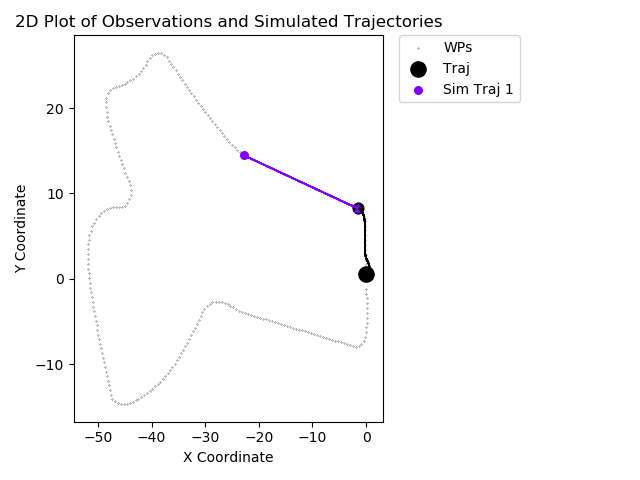
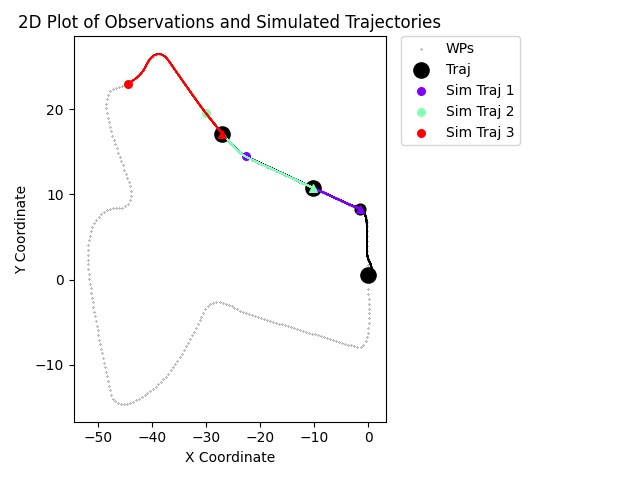
uupdated control transform

diff --git a/ada_cbf/efppo/src/efppo/task/f110.py b/ada_cbf/efppo/src/efppo/task/f110.py
@@ -658,7 +658,12 @@ class F1TenthWayPoint(Task):
         
         assert control.shape[-1] == 2 or control.shape == (2,), f"{control}"
         assert state.shape[-1] == self.nx
-        action = np.clip(control.reshape(-1, 2), self.lb, self.ub)
+
+        ## The control policy's output mean is constrained to be within (0, 3) using sigmoid scaling (check /efppo/src/efppo/networks/poly_net.py: 23)
+        ## Therefore, the input control needs to be linearly transformed to be within [self.lb, self.ub]
+        action = (control.reshape(2) * (self.ub - self.lb) / 3. + self.lb).reshape(-1, 2)
+
+        #action = np.clip(control.reshape(-1, 2), self.lb, self.ub)
        
          
         nxt_state_dict, step_reward, done, info = self.cur_env.step(action)
@@ -685,7 +690,7 @@ class F1TenthWayPoint(Task):
 
         if np.any(np.isnan(nxt_state)) or \
             np.any(np.isinf(nxt_state)) or \
-                False: #np.any(np.abs(nxt_state) > 1e3):
+                np.any(np.abs(nxt_state) > 1e6):
             if self.render:
                 print(f"State overflow: {nxt_state} @ {self.cur_step}. Frozen state: {self.cur_state}")
                 input(f"State overflow: {nxt_state} @ {self.cur_step}. Frozen state: {self.cur_state}. Say something.")

diff --git a/ada_cbf/efppo/src/efppo/rl/efppo_inner.py b/ada_cbf/efppo/src/efppo/rl/efppo_inner.py
@@ -63,10 +63,13 @@ class EFPPOCfg(Cfg):
         act: ActLiteral
         pol_hids: HidSizes
         val_hids: HidSizes
-
+  
         nz_enc: int
         z_mean: float
         z_scale: float
+
+        act_final: bool = True
+       
 
     net: NetCfg
     train: TrainCfg
@@ -124,7 +127,7 @@ class EFPPOInner(struct.PyTreeNode):
         z_base_cls = ft.partial(ZEncoder, nz=cfg.net.nz_enc, z_mean=cfg.net.z_mean, z_scale=cfg.net.z_scale)
 
         # Define policy network.
-        pol_base_cls = ft.partial(MLP, cfg.net.pol_hids, act, act_final=True, scale_final=1e-2)
+        pol_base_cls = ft.partial(MLP, cfg.net.pol_hids, act, act_final=cfg.net.act_final, scale_final=1e-2)
         pol_cls = ft.partial(DiscretePolicyNet, pol_base_cls, task.n_actions)
         pol_def = EFWrapper(pol_cls, z_base_cls)
         pol_tx = get_default_tx(as_schedule(cfg.net.pol_lr).make())

diff --git a/ada_cbf/sysid/run.py b/ada_cbf/sysid/run.py
@@ -224,7 +224,7 @@ def main():
    
     parser = argparse.ArgumentParser()
     parser.add_argument('--algo', type=str, required=True, help='Path to the map without extensions')
-    parser.add_argument('--work', type=int, required=False, d©efault = 0, help='Path to the map without extensions')
+    parser.add_argument('--work', type=int, required=False, default = 0, help='Path to the map without extensions')
     parser.add_argument('--params', type=int, required=False, default = 0, help='Path to the map without extensions')
     parser.add_argument('--render', action='store_true', help='render track')
     args = parser.parse_args()

diff --git a/ada_cbf/efppo/src/efppo/rl/collector.py b/ada_cbf/efppo/src/efppo/rl/collector.py
@@ -167,7 +167,7 @@ def collect_single_env_mode(
 
     for t in range(rollout_T):
         collect_state, (envstate_new, obs_pol, z_new, l, h, control) = _body(collect_state, None)
-        print(collect_state.steps)
+        print(f"Step: {collect_state.steps} | State: {envstate_new} | Control: {control} | l: {l} | h: {h}")
         assert not np.any(np.isnan(envstate_new))
         assert not np.any(np.isnan(obs_pol))
         assert not np.any(np.isnan(control)) 

diff --git a/ada_cbf/sysid/src/learner/learner.py b/ada_cbf/sysid/src/learner/learner.py
@@ -12,8 +12,8 @@ import pickle
   
 from sysid.src.constants import Logging_Level
 #from sysid.src.learner.nn import NN_Learner
-from sysid.src.learner.gp import GP_Learner
-from sysid.src.learner.safeopt import SafeOpt_Learner
+#from sysid.src.learner.gp import GP_Learner
+#from sysid.src.learner.safeopt import SafeOpt_Learner
 from sysid.src.learner.lin import Linear_Learner, NN_Learner, Poly_Learner
 from sysid.src.learner.nn_torch import SN_NN_Learner
 

diff --git a/ada_cbf/sysid/src/learner/lin.py b/ada_cbf/sysid/src/learner/lin.py
@@ -29,8 +29,8 @@ from sklearn.pipeline import Pipeline
 
 from sklearn.compose import TransformedTargetRegressor
 
-import GPy
-import safeopt
+#import GPy
+#import safeopt
 
 
 
